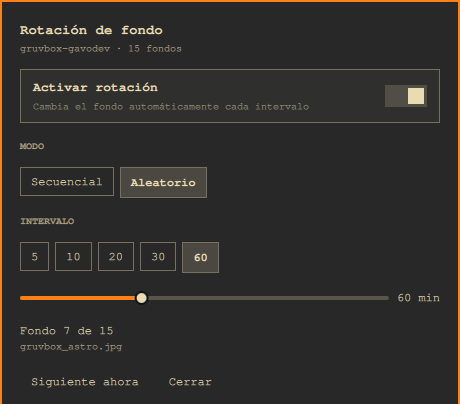
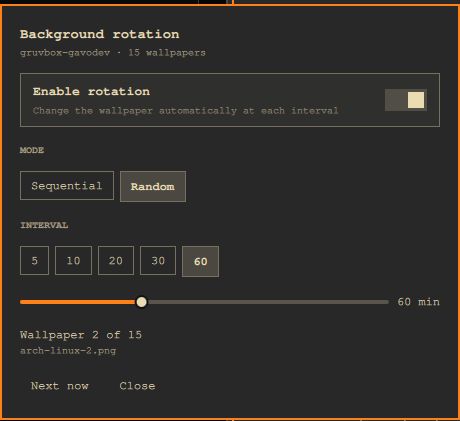
docs: use an English screenshot for the preview

diff --git a/README.md b/README.md
@@ -2,7 +2,7 @@
 
 ![Background Rotation settings panel](preview.png)
 
-*The panel follows Omarchy's language setting; shown here in Spanish.*
+*The panel follows Omarchy's language setting.*
 
 A small Omarchy shell plugin that rotates backgrounds for the active theme on a schedule.
 
